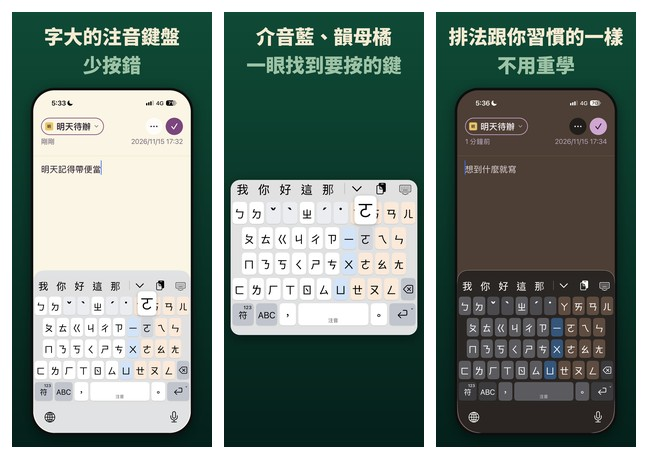
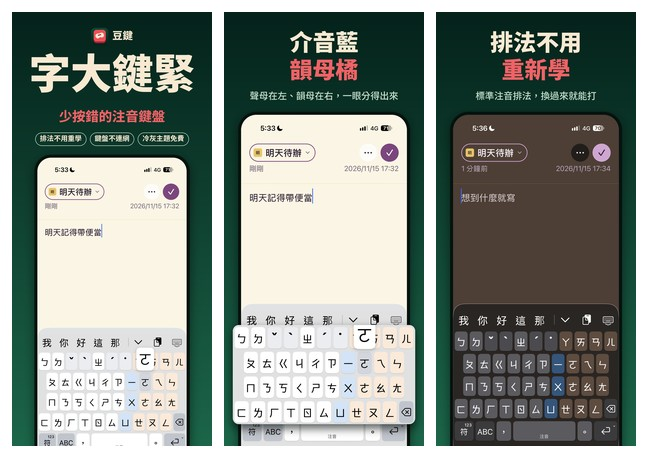
[文件] 上架圖改成茄記版型：深綠漸層、兩行大標（第二行珊瑚紅）＋描述句、手機放大底部出血、重點放大跳出手機、第一張主視覺；出 6.3 與 6.9 兩組 [skip ci]

diff --git a/.aso/截圖/make_screenshots.py b/.aso/截圖/make_screenshots.py
@@ -1,160 +1,181 @@
-# 把 iPhone 截圖合成 App Store 上架圖（1206 x 2622，放「配備動態島的 iPhone（中型顯示器）」那一格）。
-# 用法：python -I make_screenshots.py <原圖資料夾> <輸出資料夾>
-# 原圖檔名照格號：1.png、3.png、4.png⋯⋯（第 2 張用 1.png 裁切放大，不用另外截）。
-# 要改字、順序、裁切範圍，改 SHOTS 再跑一次。腳本表在 .aso/05-素材文案.md。
+# 豆鍵商店展示圖：真機截圖（1206×2622）＋大標＋描述句 → 6.3 吋與 6.9 吋兩種尺寸。
+# 版型照茄記（E:\茄記\qieji-1.1\.aso\tools\store_shots.py，多米 2026-11-15 定）：
+#   整組同一個漸層底；每張兩行大標（第二行強調色）＋一句描述；手機放大到 1000 寬、從底部出血；
+#   重點那一塊放大跳出手機框；第一張是主視覺大字。顏色換成豆鍵 icon 的深綠、米白、珊瑚紅。
+# 用法：python -I .aso/截圖/make_screenshots.py
+# 要換圖或換字，改下面 SHOTS。原圖放 .aso/截圖/raw/（檔名照格號）。
+import shutil
 import sys
 from pathlib import Path
 
 from PIL import Image, ImageDraw, ImageFilter, ImageFont
 
-W, H = 1206, 2622
-SCREEN_W = 950
-BEZEL = 15
-SCREEN_RADIUS = 128
-SCREEN_TOP = 457
-FONT_PATH = r"C:\Windows\Fonts\NotoSansTC-VF.ttf"
-FONT_SIZE = 117
-LINE_GAP = 31
-TEXT_CENTER_Y = 233
-SS = 4  # 圓角遮罩的超取樣倍數
+sys.stdout.reconfigure(encoding="utf-8")
+HERE = Path(__file__).parent
+ROOT = HERE.parent.parent
+RAW = HERE / "raw"
+OUT = HERE / "out"
+ICON = ROOT / "App/Assets.xcassets/AppIcon.appiconset/icon-1024.png"
+FONT = r"C:\Windows\Fonts\NotoSansTC-VF.ttf"
+SIZES = {"6.3": (1206, 2622), "6.9": (1320, 2868)}
 
-# 顏色取自新 icon（docs/icon/douJian.svg）：深綠漸層底、米白豆子；第二行用毛豆綠亮色
-BG_TOP = "#0F4A36"
-BG_BOTTOM = "#04201A"
-LINE1 = "#F8EAD2"
-LINE2 = "#9DC2A5"
+# 豆鍵 icon 的深綠：上深下淺
+BG_TOP, BG_BOTTOM = (5, 34, 27), (28, 102, 74)
+CREAM = (248, 234, 210)   # 大標（icon 的豆子）
+CORAL = (240, 98, 102)    # 第二行強調（icon 的鍵帽）
+SAGE = (196, 222, 204)    # 描述句
+BEZEL = (6, 18, 14)       # 手機邊框
+SHADOW = (0, 14, 8)
 
-# 裁切放大：原圖上要留下的範圍（左、上、右、下，0～1 的比例），只用在第 2 張
-KEYBOARD_CROP = (0.0, 0.548, 1.0, 0.930)  # 從候選列到空白鍵那排底，泡泡完整（2026-11-15 照實機原圖對過）
-
-# 順序就是上傳順序：(原圖, 輸出檔名, 兩行說明, 裁切範圍或 None)
+# name 檔名｜raw 原圖｜title 兩行大標｜sub 描述句｜top 手機上緣（1206 寬時的 y）
+# pops 把原圖裡的一塊放大、跳出手機外：[(x0, y0, x1, y1, 倍率, 圓角)]，座標是原圖像素
 SHOTS = [
-    ("1.png", "1-字大", ["字大的注音鍵盤", "少按錯"], None),
-    ("1.png", "2-分色", ["介音藍、韻母橘", "一眼找到要按的鍵"], KEYBOARD_CROP),
-    ("3.png", "3-排法", ["排法跟你習慣的一樣", "不用重學"], None),
-    ("4.png", "4-隱私", ["打的字只留在手機上", "同步要你自己開"], None),
-    ("5.png", "5-一聲", ["沒打聲調？", "按空白當一聲"], None),
-    ("6.png", "6-字典", ["改選過的詞", "下次排前面"], None),
-    ("7.png", "7-剪貼簿", ["複製過的字", "鍵盤裡點一下就貼"], None),
-    ("8.png", "8-主題", ["8 款豆子主題", "冷灰免費"], None),
-    ("9.png", "9-紅豆", ["紅豆主題", "楷書鍵帽字"], None),  # 選做：沒有 9.png 就跳過
+    dict(name="01-字大", raw="1.PNG", hero=True, title=["字大鍵緊"], sub="少按錯的注音鍵盤",
+         pills=["排法不用重學", "鍵盤不連網", "冷灰主題免費"]),
+    dict(name="02-分色", raw="1.PNG", title=["介音藍", "韻母橘"], sub="聲母在左、韻母在右，一眼分得出來",
+         pops=[(0, 1565, 1206, 2222, 1.1, 40)]),
+    dict(name="03-排法", raw="3.PNG", title=["排法不用", "重新學"], sub="標準注音排法，換過來就能打"),
+    dict(name="04-隱私", raw="4.PNG", title=["打的字", "只留在手機上"], sub="鍵盤不連網，iCloud 同步預設是關的",
+         pops=[(62, 1338, 1146, 1488, 1.2, 50)]),
+    dict(name="05-一聲", raw="5.PNG", title=["沒打聲調？", "按空白當一聲"], sub="空白鍵上的小字，寫著這一下是一聲還是選字",
+         pops=[(0, 1438, 1206, 1546, 1.15, 30), (436, 2228, 892, 2380, 1.7, 36)]),
+    dict(name="06-字典", raw="6.PNG", title=["改選過的詞", "下次排前面"], sub="鍵盤學到的詞，打開 App 就看得到",
+         pops=[(48, 686, 1160, 912, 1.15, 40)]),
+    dict(name="07-剪貼簿", raw="7.PNG", title=["複製過的字", "點一下就貼"], sub="常用的可以固定、加標籤",
+         pops=[(0, 1590, 1206, 1862, 1.15, 30)]),
+    dict(name="08-主題", raw="8.PNG", title=["8 款豆子主題", "冷灰免費"], sub="換顏色、字體和圓角，鍵位不變",
+         pops=[(104, 540, 1104, 1172, 1.12, 50)]),
+    dict(name="09-紅豆", raw="9.PNG", title=["紅豆主題", "楷書鍵帽字"], sub="每款都有淺色、深色兩套",
+         pops=[(0, 1565, 1206, 2222, 1.1, 40)]),
 ]
 
 
-def rounded_mask(size, radius):
-    big = Image.new("L", (size[0] * SS, size[1] * SS), 0)
-    ImageDraw.Draw(big).rounded_rectangle(
-        (0, 0, big.width - 1, big.height - 1), radius * SS, fill=255
-    )
-    return big.resize(size, Image.LANCZOS)
+def font(size, weight=900):
+    f = ImageFont.truetype(FONT, int(size))
+    f.set_variation_by_axes([weight])
+    return f
 
 
-def gradient(size, top, bottom):
-    """上到下的直向漸層"""
+def fit(d, text, size, max_w, weight=900):
+    """字太長就縮到放得下。"""
+    f = font(size, weight)
+    while d.textlength(text, font=f) > max_w:
+        size -= 2
+        f = font(size, weight)
+    return f
+
+
+def center(d, w, y, text, f, fill):
+    d.text(((w - d.textlength(text, font=f)) / 2, y), text, font=f, fill=fill)
+
+
+def gradient(size):
     w, h = size
     col = Image.new("RGB", (1, h))
-    t, b = Image.new("RGB", (1, 1), top).getpixel((0, 0)), Image.new("RGB", (1, 1), bottom).getpixel((0, 0))
     for y in range(h):
-        k = y / (h - 1)
-        col.putpixel((0, y), tuple(round(t[i] + (b[i] - t[i]) * k) for i in range(3)))
-    return col.resize((w, h))
+        t = y / (h - 1)
+        col.putpixel((0, y), tuple(int(a + (b - a) * t) for a, b in zip(BG_TOP, BG_BOTTOM)))
+    return col.resize(size)
 
 
-def headline_font():
-    font = ImageFont.truetype(FONT_PATH, FONT_SIZE)
-    font.set_variation_by_axes([900])
-    return font
+def mask(size, radius):
+    ss = 3
+    m = Image.new("L", (size[0] * ss, size[1] * ss), 0)
+    ImageDraw.Draw(m).rounded_rectangle([0, 0, size[0] * ss - 1, size[1] * ss - 1], radius * ss, fill=255)
+    return m.resize(size, Image.LANCZOS)
 
 
-def draw_headline(canvas, lines):
-    draw = ImageDraw.Draw(canvas)
-    font = headline_font()
-    ascent, descent = font.getmetrics()
-    line_h = ascent + descent
-    total = line_h * len(lines) + LINE_GAP * (len(lines) - 1)
-    y = TEXT_CENTER_Y - total / 2
-    for i, line in enumerate(lines):
-        width = draw.textlength(line, font=font)
-        if width > W - 120:
-            raise ValueError(f"標題太寬：{line}（{width:.0f}px，上限 {W - 120}）")
-        draw.text((W / 2, y), line, font=font, fill=LINE1 if i == 0 else LINE2, anchor="ma")
-        y += line_h + LINE_GAP
+def pill_row(d, w, y, texts, f, k, gap=22):
+    widths = [d.textlength(t, font=f) + 56 * k for t in texts]
+    x = (w - sum(widths) - gap * k * (len(texts) - 1)) / 2
+    ph = f.size * 1.9
+    for t, pw in zip(texts, widths):
+        d.rounded_rectangle([x, y, x + pw, y + ph], ph / 2, outline=SAGE, width=max(2, int(3 * k)))
+        d.text((x + 28 * k, y + (ph - f.size * 1.45) / 2), t, font=f, fill=CREAM)
+        x += pw + gap * k
 
 
-def paste_framed(canvas, shot, radius, bezel, center=False):
-    """把畫面加外框、陰影，水平置中貼在標題下面；center=True 時在剩下的空間垂直置中"""
-    outer = (shot.width + bezel * 2, shot.height + bezel * 2)
-    x = (W - outer[0]) // 2
-    y = SCREEN_TOP if not center else SCREEN_TOP + max(0, (H - SCREEN_TOP - outer[1]) // 2 - 60)
-    if y + outer[1] > H:
-        raise ValueError(f"畫面超出底部：{y + outer[1]} > {H}")
-    outer_mask = rounded_mask(outer, radius + bezel)
-
-    shadow = Image.new("L", (W, H), 0)
-    shadow.paste(outer_mask.point(lambda v: v * 0.45), (x, y + 18))
-    shadow = shadow.filter(ImageFilter.GaussianBlur(36))
-    canvas.paste(Image.new("RGB", (W, H), "#000000"), (0, 0), shadow)
-
-    canvas.paste(Image.new("RGB", outer, "#0E0E10"), (x, y), outer_mask)
-    canvas.paste(shot, (x + bezel, y + bezel), rounded_mask(shot.size, radius))
+def shadow(im, box, radius, blur, alpha=130, dy=18):
+    sh = Image.new("RGBA", im.size, (0, 0, 0, 0))
+    x0, y0, x1, y1 = box
+    ImageDraw.Draw(sh).rounded_rectangle([x0, y0 + dy, x1, y1 + dy], radius, fill=(*SHADOW, alpha))
+    return Image.alpha_composite(im.convert("RGBA"), sh.filter(ImageFilter.GaussianBlur(blur))).convert("RGB")
 
 
-def compose(src, lines, crop):
-    canvas = gradient((W, H), BG_TOP, BG_BOTTOM)
-    draw_headline(canvas, lines)
-    shot = Image.open(src).convert("RGB")
-    if crop:
-        box = tuple(round(v * (shot.width if i % 2 == 0 else shot.height)) for i, v in enumerate(crop))
-        shot = shot.crop(box)
-        target_w = W - 80
-        shot = shot.resize((target_w, round(shot.height * target_w / shot.width)), Image.LANCZOS)
-        paste_framed(canvas, shot, radius=56, bezel=0, center=True)
+def compose(size, raw, title, sub, top=None, pops=None, hero=False, pills=None, name=None):
+    w, h = size
+    k = w / 1206
+    im = gradient(size)
+    d = ImageDraw.Draw(im)
+    phone_w = 1000
+    if hero:
+        # 主視覺：圖示＋名字、特大字、描述句、三顆小標；手機小一點，鍵盤才露得完整
+        icon = Image.open(ICON).convert("RGB").resize((int(104 * k),) * 2, Image.LANCZOS)
+        fn = font(62 * k, 800)
+        tw = d.textlength("豆鍵", font=fn)
+        x0 = (w - (icon.width + 24 * k + tw)) / 2
+        y0 = int(96 * k)
+        im.paste(icon, (int(x0), y0), mask(icon.size, int(24 * k)))
+        d.text((x0 + icon.width + 24 * k, y0 + (icon.height - fn.size * 1.45) / 2), "豆鍵", font=fn, fill=CREAM)
+        center(d, w, 214 * k, title[0], fit(d, title[0], 250 * k, w * 0.9), CREAM)
+        center(d, w, 580 * k, sub, font(80 * k, 800), CORAL)
+        pill_row(d, w, 728 * k, pills, font(42 * k, 700), k)
+        top = top or 880
+        phone_w = 900
     else:
-        shot = shot.resize((SCREEN_W, round(shot.height * SCREEN_W / shot.width)), Image.LANCZOS)
-        paste_framed(canvas, shot, radius=SCREEN_RADIUS, bezel=BEZEL)
-    return canvas
-
-
-def search_preview(images, path):
-    """前三張縮成搜尋結果那麼小（一張約 200 像素寬），給閘門 4 的 5 秒測試用"""
-    thumb_w, gap = 200, 12
-    thumb_h = round(H * thumb_w / W)
-    sheet = Image.new("RGB", (thumb_w * 3 + gap * 4, thumb_h + gap * 2), "#FFFFFF")
-    for i, im in enumerate(images[:3]):
-        sheet.paste(im.resize((thumb_w, thumb_h), Image.LANCZOS), (gap + i * (thumb_w + gap), gap))
-    sheet.save(path, quality=90)
-
-
-def contact_sheet(images, path):
-    thumb_w, gap, cols = 400, 24, 3
-    thumb_h = round(H * thumb_w / W)
-    rows = (len(images) + cols - 1) // cols
-    sheet = Image.new("RGB", (thumb_w * cols + gap * (cols + 1), thumb_h * rows + gap * (rows + 1)), "#FFFFFF")
-    for i, im in enumerate(images):
-        sheet.paste(
-            im.resize((thumb_w, thumb_h), Image.LANCZOS),
-            (gap + (i % cols) * (thumb_w + gap), gap + (i // cols) * (thumb_h + gap)),
-        )
-    sheet.save(path, quality=88)
+        size_t = min(fit(d, t, 138 * k, w * 0.9).size for t in title)
+        ft = font(size_t)
+        y = 96 * k
+        for i, t in enumerate(title):
+            center(d, w, y, t, ft, CORAL if i == len(title) - 1 and len(title) > 1 else CREAM)
+            y += size_t * 1.2
+        y += 44 * k
+        center(d, w, y, sub, fit(d, sub, 56 * k, w * 0.9, 500), SAGE)
+        y += 110 * k
+        top = top or (y / k + 40)
+    shot = Image.open(RAW / raw).convert("RGB")
+    sc = phone_w * k / shot.width          # 手機畫面放大，底部出血
+    pw, ph = int(shot.width * sc), int(shot.height * sc)
+    x, y = (w - pw) // 2, int(top * k)
+    r, b = int(92 * k * phone_w / 1000), int(18 * k)
+    im = shadow(im, (x - b, y - b, x + pw + b, y + ph + b), r + b, int(w * 0.025))
+    ImageDraw.Draw(im).rounded_rectangle([x - b, y - b, x + pw + b, y + ph + b], r + b, fill=BEZEL)
+    im.paste(shot.resize((pw, ph), Image.LANCZOS), (x, y), mask((pw, ph), r))
+    for x0, y0, x1, y1, zoom, rad in pops or []:
+        # 重點那一塊放大，疊在原位置上，超出手機邊框
+        piece = shot.crop((x0, y0, x1, y1))
+        qw, qh = int(piece.width * sc * zoom), int(piece.height * sc * zoom)
+        cx, cy = x + (x0 + x1) / 2 * sc, y + (y0 + y1) / 2 * sc
+        qx = int(min(max(cx - qw / 2, 14 * k), w - qw - 14 * k))
+        qy = int(min(cy - qh / 2, h - qh - 40 * k))
+        qr = int(rad * sc * zoom)
+        im = shadow(im, (qx, qy, qx + qw, qy + qh), qr, int(w * 0.022), alpha=170, dy=24)
+        im.paste(piece.resize((qw, qh), Image.LANCZOS), (qx, qy), mask((qw, qh), qr))
+    return im
 
 
 def main():
-    sys.stdout.reconfigure(encoding="utf-8")
-    src_dir, out_dir = Path(sys.argv[1]), Path(sys.argv[2])
-    out_dir.mkdir(parents=True, exist_ok=True)
-    images = []
-    for filename, name, lines, crop in SHOTS:
-        src = src_dir / filename
-        if not src.exists():
-            print(f"跳過 {name}：沒有 {src}")
-            continue
-        im = compose(src, lines, crop)
-        im.save(out_dir / f"{name}.png", optimize=True)
-        images.append(im)
-        print(f"完成 {name}")
-    if images:
-        search_preview(images, out_dir / "搜尋結果預覽（不用上傳）.jpg")
-        contact_sheet(images, out_dir / "總覽（不用上傳）.jpg")
+    for label, size in SIZES.items():
+        out_dir = OUT / label
+        shutil.rmtree(out_dir, ignore_errors=True)
+        out_dir.mkdir(parents=True)
+        for s in SHOTS:
+            compose(size, **s).save(out_dir / f"{s['name']}.jpg", quality=94)
+    # 總覽給人看；搜尋結果預覽給 5 秒測試用（前三張縮到約 200 寬）
+    W = 400
+    H = int(W * 2622 / 1206)
+    names = [s["name"] for s in SHOTS]
+    sheet = Image.new("RGB", (W * 5 + 12 * 4, H * 2 + 12), (245, 245, 245))
+    for i, n in enumerate(names):
+        im = Image.open(OUT / "6.3" / f"{n}.jpg").resize((W, H), Image.LANCZOS)
+        sheet.paste(im, ((i % 5) * (W + 12), (i // 5) * (H + 12)))
+    sheet.save(OUT / "總覽（不用上傳）.jpg", quality=88)
+    tw, th, gap = 200, int(200 * 2622 / 1206), 12
+    pre = Image.new("RGB", (tw * 3 + gap * 4, th + gap * 2), "#FFFFFF")
+    for i, n in enumerate(names[:3]):
+        pre.paste(Image.open(OUT / "6.3" / f"{n}.jpg").resize((tw, th), Image.LANCZOS), (gap + i * (tw + gap), gap))
+    pre.save(OUT / "搜尋結果預覽（不用上傳）.jpg", quality=90)
+    print("完成", len(SHOTS), "張 ×", len(SIZES), "種尺寸")
 
 
 if __name__ == "__main__":

diff --git a/.aso/05-素材文案.md b/.aso/05-素材文案.md
@@ -9,15 +9,15 @@
 
 | 格 | 要拍的畫面（全部用 1.1 的 build） | 說明文字 | 回答什麼 | 給誰 |
 |---|---|---|---|---|
-| 1 | 備忘錄裡打一句話，注音鍵面（冷灰、淺色），候選列有字，**按著一顆鍵**讓放大泡泡跳出來 | 字大的注音鍵盤／少按錯 | 這是什麼（跟名稱講同一件事） | 所有人 |
-| 2 | 同第 1 張的原圖，合成時只放大鍵盤那一塊 | 介音藍、韻母橘／一眼找到要按的鍵 | 怎麼運作 | 所有人 |
-| 3 | 同一句話，深色模式 | 排法跟你習慣的一樣／不用重學 | 為什麼要裝（03 空位） | 所有人 |
-| 4 | 豆鍵 App →設定→資料那一段（iCloud 同步開關是關的） | 打的字只留在手機上／同步要你自己開 | 完全取用、隱私 | 往下滑的人 |
-| 5 | 打「ㄉㄧ」按一下空白，候選只剩一聲字、空白鍵小字是「選字」 | 沒打聲調？／按空白當一聲 | 選字準不準、跟別人哪裡不同 | 往下滑的人 |
-| 6 | 豆鍵 App 字典分頁，有幾個「自動」的詞 | 改選過的詞／下次排前面 | 選字會不會越用越順 | 往下滑的人 |
-| 7 | 鍵盤的剪貼簿面板，兩欄卡片，有一兩張固定的 | 複製過的字／鍵盤裡點一下就貼 | 留下來的理由 | 往下滑的人 |
-| 8 | 豆鍵 App 主題分頁 | 8 款豆子主題／冷灰免費 | 免費能用什麼 | 往下滑的人 |
-| 9（選做） | 紅豆主題打字畫面 | 紅豆主題／楷書鍵帽字 | 留下來的理由 | 往下滑的人 |
+| 1 | 備忘錄裡打一句話，注音鍵面（冷灰、淺色），候選列有字，**按著一顆鍵**讓放大泡泡跳出來 | 主視覺：豆鍵 icon＋「字大鍵緊」＋「少按錯的注音鍵盤」＋三顆小標（排法不用重學、鍵盤不連網、冷灰主題免費） | 這是什麼（跟名稱講同一件事） | 所有人 |
+| 2 | 同第 1 張的原圖，合成時只放大鍵盤那一塊 | 介音藍／韻母橘＋「聲母在左、韻母在右，一眼分得出來」（鍵盤四排放大跳出手機） | 怎麼運作 | 所有人 |
+| 3 | 同一句話，深色模式 | 排法不用／重新學＋「標準注音排法，換過來就能打」 | 為什麼要裝（03 空位） | 所有人 |
+| 4 | 豆鍵 App →設定→資料那一段（iCloud 同步開關是關的） | 打的字／只留在手機上＋「鍵盤不連網，iCloud 同步預設是關的」（iCloud 那列放大） | 完全取用、隱私 | 往下滑的人 |
+| 5 | 打「ㄉㄧ」按一下空白，候選只剩一聲字、空白鍵小字是「選字」 | 沒打聲調？／按空白當一聲＋「空白鍵上的小字，寫著這一下是一聲還是選字」（候選列、空白鍵放大） | 選字準不準、跟別人哪裡不同 | 往下滑的人 |
+| 6 | 豆鍵 App 字典分頁，有幾個「自動」的詞 | 改選過的詞／下次排前面＋「鍵盤學到的詞，打開 App 就看得到」（自動學習那張卡放大） | 選字會不會越用越順 | 往下滑的人 |
+| 7 | 鍵盤的剪貼簿面板，兩欄卡片，有一兩張固定的 | 複製過的字／點一下就貼＋「常用的可以固定、加標籤」（剪貼簿面板放大） | 留下來的理由 | 往下滑的人 |
+| 8 | 豆鍵 App 主題分頁 | 8 款豆子主題／冷灰免費＋「換顏色、字體和圓角，鍵位不變」（主題預覽放大） | 免費能用什麼 | 往下滑的人 |
+| 9（選做） | 紅豆主題打字畫面 | 紅豆主題／楷書鍵帽字＋「每款都有淺色、深色兩套」（鍵盤四排放大） | 留下來的理由 | 往下滑的人 |
 
 ### 截圖時要注意
 
@@ -31,11 +31,11 @@
 ### 合成
 
 ```bash
-python -I .aso/截圖/make_screenshots.py .aso/截圖/raw .aso/截圖/out
+python -I .aso/截圖/make_screenshots.py
 ```
 
-- 底色換成跟新 icon 一樣的深綠漸層，字用 icon 豆子的米白；1.0 那種六張六個顏色拿掉，並排時整組看起來是同一個 app。
-- 第 2 張用裁切放大，不加手機外框。
+- 版型照茄記 1.1（2026-11-15 多米定）：整組同一個深綠漸層底；兩行大標，第二行用 icon 鍵帽的珊瑚紅；一句描述；手機放大、從底部出血；重點那一塊放大跳出手機框；第一張是主視覺大字。
+- 產出 `out/6.3/`（1206×2622）和 `out/6.9/`（1320×2868）兩組，App Store Connect 兩格都能放。
 - 每行字在腳本裡會檢查寬度，太寬會直接報錯。
 
 ### 閘門 4：新的眼睛

diff --git a/.aso/README.md b/.aso/README.md
@@ -26,7 +26,7 @@ python -I .aso/check_copy.py
 ```
 
 ```bash
-python -I .aso/截圖/make_screenshots.py .aso/截圖/raw .aso/截圖/out
+python -I .aso/截圖/make_screenshots.py
 ```
 
 ```bash
